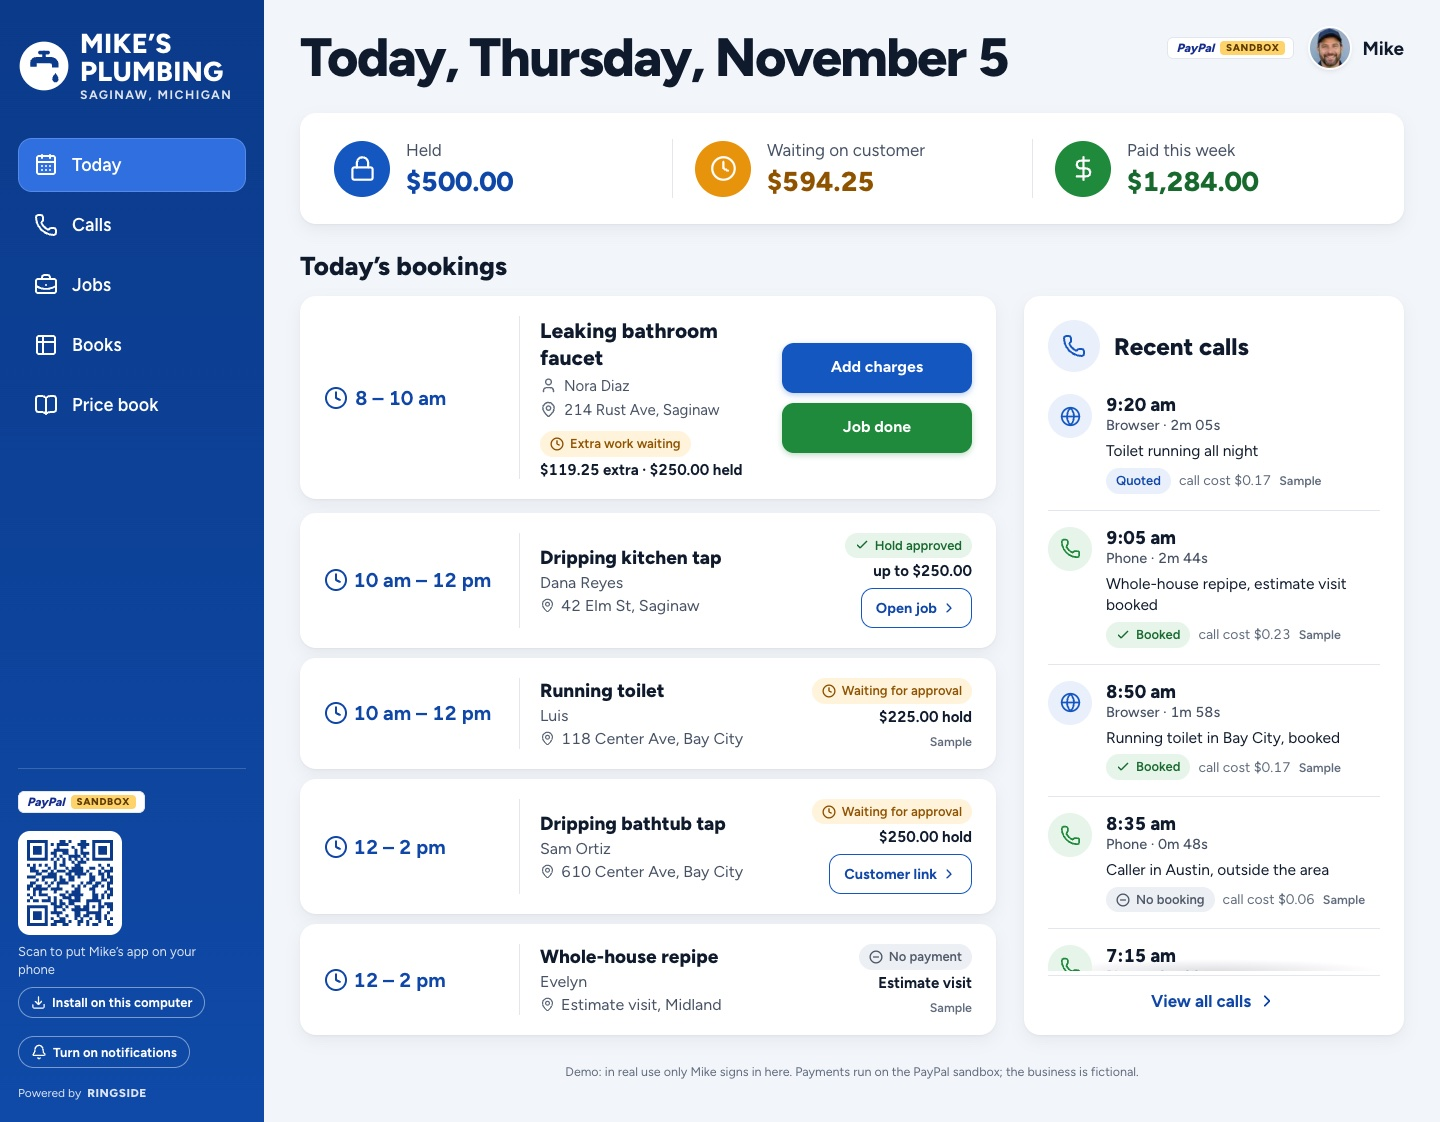
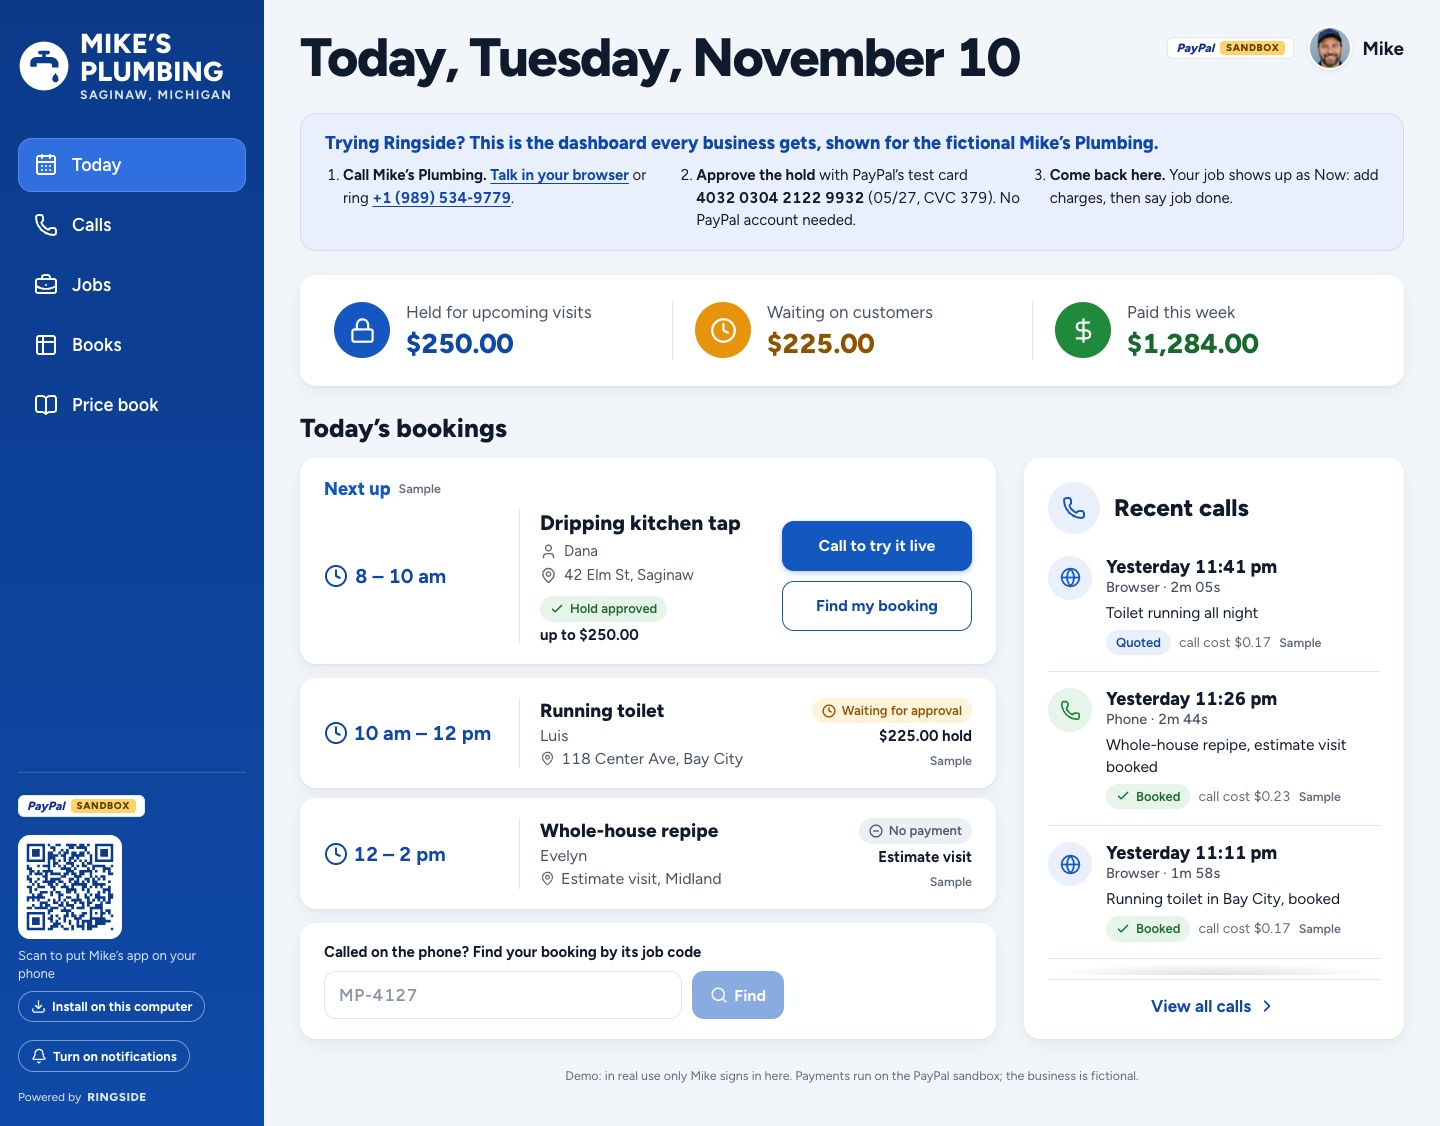
Close-out gallery image, current screenshots, and exact test claims
A new 3:2 gallery canvas shows the close-out from real screenshots:
the Render workflow run for a job beside PayPal's log of the app's
calls in the same minute, with the invoice created once.

The README's dashboard screenshot is retaken with today's labels, and
its Books image is the current one showing Ask your books answering.
The sponsor pages now say which tests replay which recordings (13 SDK
tests in paypal.test.ts, 10 Invoicing tests in receipts.test.ts), name
the filmed job the same way as the README, and say the agent worked
with APIMatic's plugin loaded. The call cap is no longer in public text.
A fresh clone ran from the README as written: npm ci, migrations,
npm run check (169 tests), build, and every page served.

diff --git a/assets/src/gallery.html b/assets/src/gallery.html
@@ -22,6 +22,11 @@
   .phone { width: 400px; height: 1000px; border-radius: 44px; padding: 5px; background: #0f1b2d; box-shadow: 0 30px 60px rgba(16,24,40,.22); }
   .phone img { display: block; width: 390px; height: 990px; object-fit: cover; object-position: top; border-radius: 40px; }
   figcaption { margin-top: 18px; text-align: center; font-size: 22px; font-weight: 700; color: #465264; }
+  /* #closeout: two real screenshots, cropped in CSS (each .shot is a window onto its source image) */
+  .proof { display: flex; flex-direction: column; gap: 26px; }
+  .label { font-size: 22px; font-weight: 800; color: #465264; margin-bottom: 10px; }
+  .shot { position: relative; width: 1040px; overflow: hidden; border-radius: 16px; background: #fff; border: 2px solid #e2e7ee; box-shadow: 0 20px 44px rgba(16,24,40,.12); }
+  .shot img { position: absolute; display: block; max-width: none; }
 </style>
 </head>
 <body>
@@ -52,6 +57,30 @@
     <div class="phones">
       <figure><div class="phone"><img src="../screens/app-job.jpg" alt=""></div><figcaption>Mike, on site</figcaption></figure>
       <figure><div class="phone"><img src="../screens/approve-change.jpg" alt=""></div><figcaption>The customer</figcaption></figure>
+    </div>
+  </section>
+
+  <section class="canvas" id="closeout" style="grid-template-columns: 520px 1040px; gap: 40px; padding: 90px 100px;">
+    <div>
+      <div class="mark"><span class="r">R</span>RINGSIDE</div>
+      <span class="step">4 · The close-out</span>
+      <h1>Charged once. Receipted once.</h1>
+      <p>Mike taps Job done and PayPal captures the real cost from the hold, releasing the rest. A Render workflow then sends the PayPal receipt invoice and closes the job.</p>
+      <p>A rerun on the same job returned the same invoice, and PayPal shows it created once.</p>
+      <span class="api">Payments v2 · Invoicing v2 · Render Workflows</span>
+      <p class="fine">Real screenshots: Render’s run history and PayPal’s developer dashboard. PayPal sandbox.</p>
+    </div>
+    <div class="proof">
+      <div>
+        <div class="label">Render Workflows · the closeJob run for the job</div>
+        <!-- render-workflow-run.jpg 1512×789, crop x 300–1512, y 125–700, scale 0.858 -->
+        <div class="shot" style="height: 493px;"><img src="../sponsors/render-workflow-run.jpg" alt="" style="width: 1297px; left: -257px; top: -107px;"></div>
+      </div>
+      <div>
+        <div class="label">PayPal · the app’s API calls, the same minute</div>
+        <!-- paypal-api-invoicing.jpg 1568×673, crop x 20–1250, y 100–550, scale 0.8455 -->
+        <div class="shot" style="height: 380px;"><img src="../sponsors/paypal-api-invoicing.jpg" alt="" style="width: 1326px; left: -17px; top: -85px;"></div>
+      </div>
     </div>
   </section>
 </body>

diff --git a/README.md b/README.md
@@ -144,8 +144,8 @@ Every business on Ringside runs the same flow; the screens below are the demo bu
 
 1. **The call.** A customer in Mike's area (the Saginaw Tri-Cities, Michigan) phones the business or calls from the
    browser. The ElevenLabs agent says it is an AI assistant answering for Mike, finds the job in Mike's price book,
-   quotes its range (a dripping faucet is $125 to $250), asks which day and time suit the caller, and offers Mike's open windows then. Calls end at six minutes, and the
-   agent says goodbye before that. Without a call, **Book without calling** lets the customer describe the problem in
+   quotes its range (a dripping faucet is $125 to $250), asks which day and time suit the caller, and offers Mike's open windows then.
+   Without a call, **Book without calling** lets the customer describe the problem in
    their own words: Claude Haiku 5.5 picks the one job in the price book that fits, a repair before a replacement, and
    the form shows its range, a day and time to choose, and the same read-back before the hold.
 
@@ -203,9 +203,9 @@ Every business on Ringside runs the same flow; the screens below are the demo bu
    "Who still owes me?" from his own data. Mike installs the dashboard on his phone as an app: one tap where the browser
    offers it, a Share hint on iPhone, or a QR code from the desk.
 
-<img src="assets/screens/dashboard.jpg" width="100%" alt="Mike's dashboard on a desktop: the blue sidebar, money held, waiting on the customer and paid this week, today's bookings with Add charges and Job done on the current job, and recent calls with their cost">
+<img src="assets/screens/dashboard.jpg" width="100%" alt="Mike's dashboard on a desktop: the blue sidebar, a three-step guide for trying the demo, money held for upcoming visits, waiting on customers and paid this week, today's bookings with their PayPal status, and recent calls with their cost">
 
-<img src="assets/screens/books.jpg" width="100%" alt="Mike's Books in AG Studio: figure tiles for charged, held, waiting and calls; money this week by day; a payment timeline for the selected job; the week's jobs grid with status pills; and Ask your books answering who still owes money">
+<img src="assets/sponsors/aggrid-books.jpg" width="100%" alt="Mike's Books in AG Studio: figure tiles for charged, held, waiting and calls; money this week by day; a payment timeline for the selected job; the week's jobs grid with status pills; and Ask your books answering who still owes money">
 
 Nobody pays without saying yes, nobody pays more than they approved, and every price comes from the price book, checked
 in code.
@@ -258,7 +258,7 @@ page, with screenshots from the live app and the sponsors' dashboards: **[PayPal
 | Part | Built with | What it does |
 |---|---|---|
 | Phone line | Twilio US number, imported into ElevenLabs | Callers dial the business and land straight on the agent ([`scripts/gates/setup-voice.mjs`](scripts/gates/setup-voice.mjs)) |
-| Voice agent | ElevenLabs Agents; LLM GLM 5.2 (`glm-52`) with medium reasoning, hosted by ElevenLabs; voice "Chris"; calls capped at 6 minutes | Answers as Mike's AI assistant. Conversations start only through Ringside (the agent requires authentication: the browser call uses a short-lived token from the server, the phone line comes through Twilio), and every tool call carries a shared secret. Its eleven server tools read the price book, check the service area, find open windows, save the quote, book it and send the PayPal link only after a yes. More work for the same visit goes on the same job: re-quoted before the hold is approved, or passed to Mike as extra work once it is. Near the time limit every tool reply tells it to wrap up ([`src/lib/agent-tools.ts`](src/lib/agent-tools.ts), [`scripts/agent/configure.mjs`](scripts/agent/configure.mjs)) |
+| Voice agent | ElevenLabs Agents; LLM GLM 5.2 (`glm-52`) with medium reasoning, hosted by ElevenLabs; voice "Chris" | Answers as Mike's AI assistant. Conversations start only through Ringside (the agent requires authentication: the browser call uses a short-lived token from the server, the phone line comes through Twilio), and every tool call carries a shared secret. Its eleven server tools read the price book, check the service area, find open windows, save the quote, book it and send the PayPal link only after a yes. More work for the same visit goes on the same job: re-quoted before the hold is approved, or passed to Mike as extra work once it is. Near the time limit every tool reply tells it to wrap up ([`src/lib/agent-tools.ts`](src/lib/agent-tools.ts), [`scripts/agent/configure.mjs`](scripts/agent/configure.mjs)) |
 | Browser call | `@elevenlabs/react` over WebRTC, a server-issued conversation token | The same agent in the browser with a live transcript and a booking card that fills in; the conversation is registered to the visitor's session before the first tool call; a recorded call, and **Book without calling**: describe the problem in your own words and Claude Haiku 5.5 matches it to a job in the price book (or pick it yourself), then the same read-back and the agent's own quote, booking and hold tools ([`src/app/call/`](src/app/call/page.tsx)) |
 | Prices | Mike's price book (125 jobs as USD ranges) and a rate card of add-ons, money in integer cents | A quote holds the top of its range; extra work is parts and labour in 15-minute blocks of $23.75, or a whole job at Mike's price inside its range ([`src/lib/price-book.ts`](src/lib/price-book.ts), [`src/lib/rate-card.ts`](src/lib/rate-card.ts)) |
 | Service area | The Saginaw Tri-Cities by ZIP and city | Callers outside it get no booking and no payment ([`src/lib/service-area.ts`](src/lib/service-area.ts)) |

diff --git a/devlog.md b/devlog.md
@@ -16,7 +16,7 @@
 - **AI models (build):** Claude Code with claude-opus-5-5
 - **Event deadline:** 2026-11-12 12:00 PST = 2026-11-13 01:30 IST
 - **PayPal APIs used:** OAuth (`POST /v1/oauth2/token`); Orders v2 through `@paypal/paypal-server-sdk` 2.5.0 (`POST /v2/checkout/orders`, `GET /v2/checkout/orders/{id}`, `POST /v2/checkout/orders/{id}/authorize`, `POST /v2/checkout/orders/{id}/capture`); Payments v2 through the SDK (`POST /v2/payments/authorizations/{id}/capture`, `POST /v2/payments/authorizations/{id}/void`); Invoicing v2 as REST (`POST /v2/invoicing/invoices`, `GET /v2/invoicing/invoices/{id}`, `POST /v2/invoicing/search-invoices`, `POST /v2/invoicing/invoices/{id}/send`, `POST /v2/invoicing/invoices/{id}/payments`); Webhooks (`POST /v1/notifications/verify-webhook-signature`, receiver at `/api/paypal/webhook`, `POST /v1/notifications/webhooks` in a setup script); JS SDK buttons on the approval page
-- **Voice stack:** ElevenLabs agent on GLM 5.2 with the Chris voice, eleven server tools, a 6-minute call cap with a spoken wrap-up and a 15 s turn timeout; browser calls through `@elevenlabs/react` with a server-minted conversation token; Twilio US number imported into ElevenLabs and answering inbound calls (outbound blocked by Twilio 21216)
+- **Voice stack:** ElevenLabs agent on GLM 5.2 with the Chris voice, eleven server tools and a 15 s turn timeout; browser calls through `@elevenlabs/react` with a server-minted conversation token; Twilio US number imported into ElevenLabs and answering inbound calls (outbound blocked by Twilio 21216)
 - **Sponsor tools used:** Render (web service, Postgres 18, Workflows close-out service with an inline fallback); AG Grid (AG Studio 3.0.0 for Mike's Books, with the Studio Agent Framework behind "Ask your books"); APIMatic (PayPal's APIMatic-generated server SDK for Orders and Payments). Bryntum dropped. Each has its own page with screenshots under `sponsors/`
 - **Model and voice spend:** from field notes: one 99 s inbound call, 798 ElevenLabs call credits plus $0.0078 LLM; four change-order parser calls on `claude-sonnet-5-5`, under $0.01 each; Render $13.30/mo from the $50 hackathon credit; "Ask your books": four Claude Haiku calls, about $0.001 each; live test calls on GLM 5.2 ran about 750 to 790 ElevenLabs credits a minute, of which the model was about 39% (field notes, 2026-11-06); one more "Ask your books" call for the sponsor screenshots, under a cent (2026-11-10)
 - **Started:** 2026-11-05T06:24:33+05:30

diff --git a/sponsors/paypal.md b/sponsors/paypal.md
@@ -52,7 +52,7 @@ recorded. An approval still completes when the customer closes the page before P
 
 Job **MP-4177** is a real phone call, filmed for the demo video on 2026-11-07:
 
-1. On the phone, the agent quoted a dripping-tap repair from the price book, at $125 to $250, and read the quote back.
+1. On the phone, the agent quoted a faucet leak repair from the price book, at $125 to $250, and read the quote back.
    The caller said yes, and the agent sent the PayPal link.
 2. The caller approved a **$250.00 hold** while still on the call. The agent confirmed the visit only after its
    `check_hold` tool came back authorized.
@@ -139,9 +139,11 @@ These are enforced in code, not left to the voice agent's prompt:
 
 ### Tested without the network
 
-Thirteen tests in [`test/paypal.test.ts`](../test/paypal.test.ts) replay 14 recorded sandbox responses
-([`test/fixtures/paypal/`](../test/fixtures/paypal)) through the real SDK client: the hold, authorize, capture,
-over-capture refusal, unapproved order, void, invoices and duplicate invoice numbers. No test calls PayPal.
+Thirteen tests in [`test/paypal.test.ts`](../test/paypal.test.ts) replay recorded sandbox responses through the
+real SDK client: the hold, authorize, capture, PayPal's over-capture refusal, an unapproved order and void. Ten more in
+[`test/receipts.test.ts`](../test/receipts.test.ts) replay the Invoicing responses: create, send, record payment, paid,
+and a duplicate invoice number. The recordings are in [`test/fixtures/paypal/`](../test/fixtures/paypal). No test
+calls PayPal.
 
 ```
 $ npx vitest run test/paypal.test.ts

diff --git a/sponsors/apimatic.md b/sponsors/apimatic.md
@@ -4,8 +4,8 @@
 [PayPal](paypal.md) · [AG Grid](ag-grid.md) · **APIMatic** · [Render](render.md)
 
 Ringside takes its customers' money through **PayPal's server SDK, `@paypal/paypal-server-sdk` 2.5, which APIMatic
-generates**. That integration was written by a coding agent (Claude Code) working from **APIMatic's PayPal context
-plugin**, so the agent read how this particular SDK behaves instead of guessing. The plugin's eight TypeScript skills
+generates**. That integration was written with **APIMatic's PayPal context plugin** loaded into the coding agent (Claude
+Code), so the agent read how this particular SDK behaves instead of guessing. The plugin's eight TypeScript skills
 are checked into this repository.
 
 | | |
@@ -13,7 +13,7 @@ are checked into this repository.
 | **APIMatic tools used** | The PayPal Server SDK (APIMatic-generated) and APIMatic's [PayPal context plugin](https://github.com/paypaldev/server-sdk-context-plugin-preview) for coding agents |
 | **What runs on the SDK** | Orders v2 (create, get, authorize, capture) and Payments v2 (capture an authorization, void), which is every call that places, takes or releases a customer's money |
 | **Where** | [`src/lib/paypal.ts`](../src/lib/paypal.ts), with the skills in [`.claude/skills/`](../.claude/skills/APIMATIC-PLUGIN.md) |
-| **Tests** | 13 tests replay 14 recorded sandbox responses through the real SDK client: [`test/paypal.test.ts`](../test/paypal.test.ts) |
+| **Tests** | 13 tests replay recorded sandbox responses through the real SDK client: [`test/paypal.test.ts`](../test/paypal.test.ts) |
 
 ---
 
